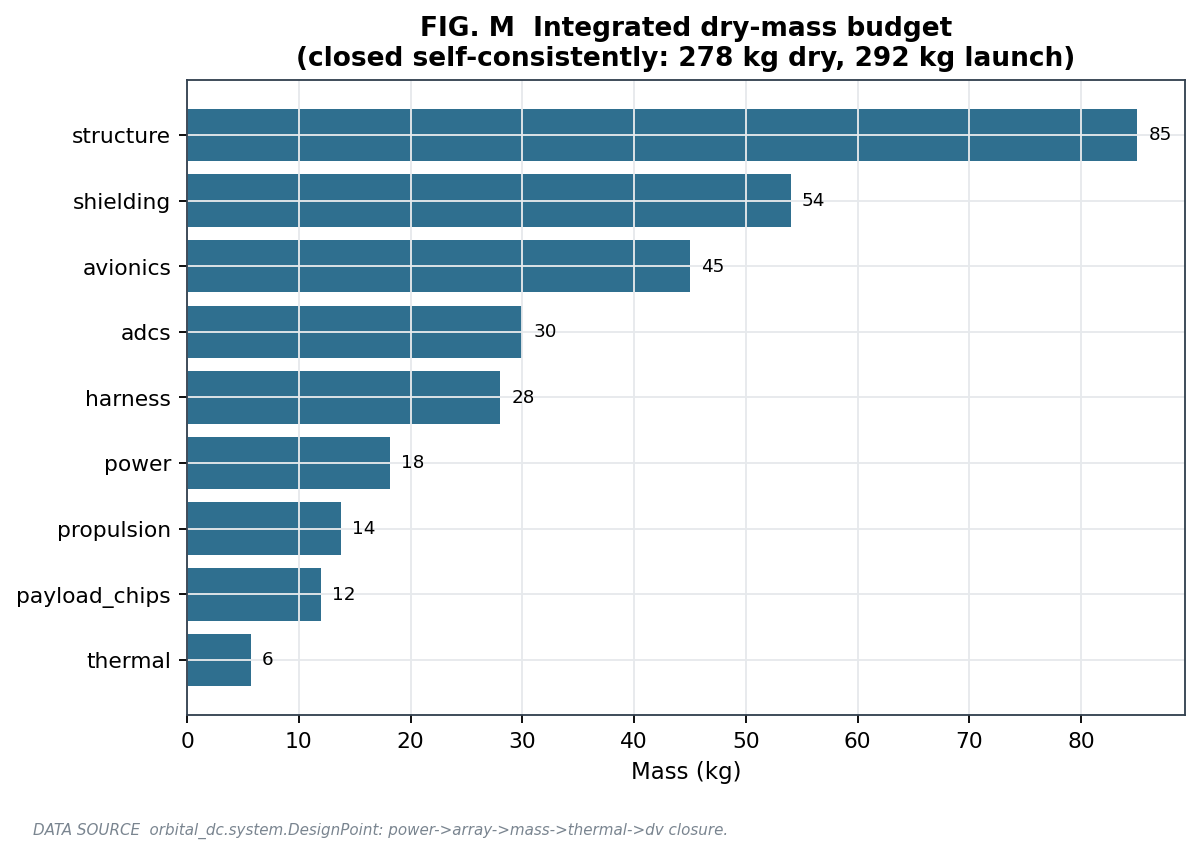
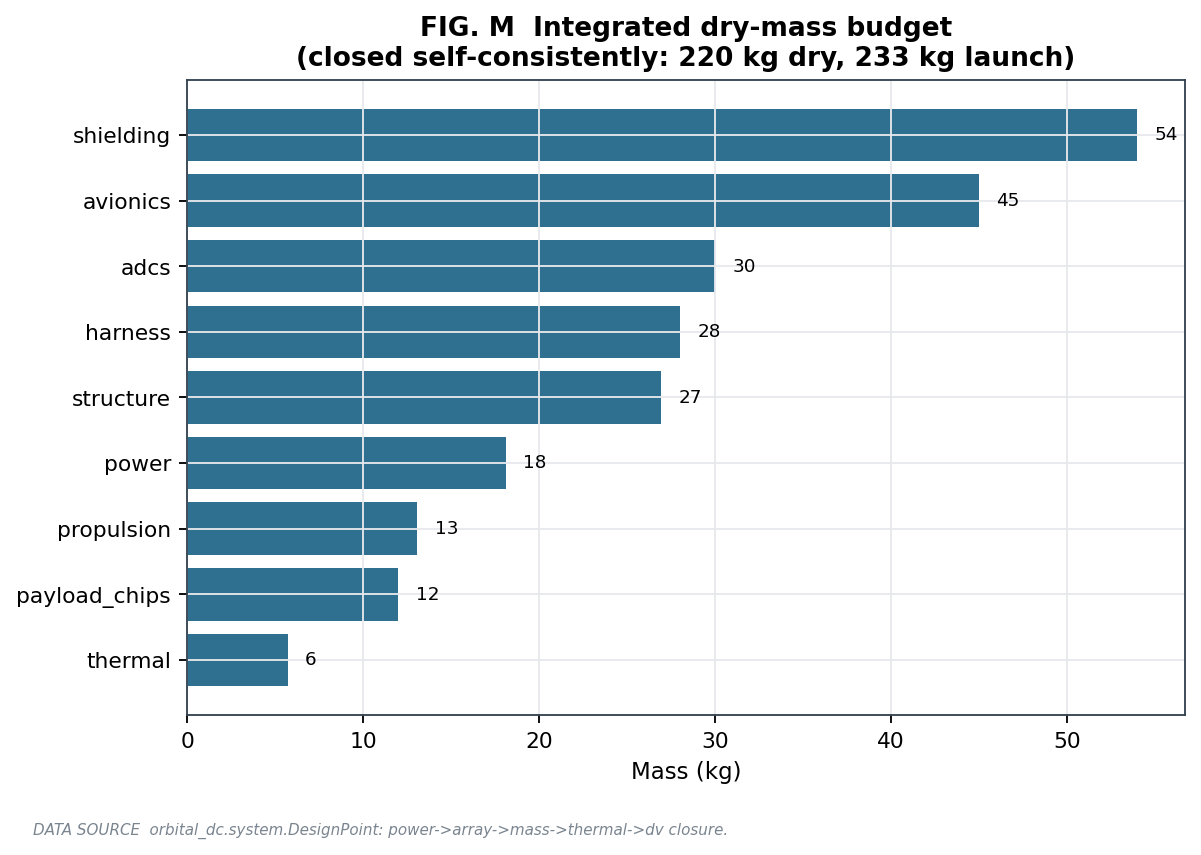
Add real Microsoft Word (.docx) edition of the treatise: 403 native OMML equations, 14 figures, 18 tables (via pandoc)

diff --git a/report/make_docx.py b/report/make_docx.py
@@ -1,0 +1,32 @@
+"""Convert Report_II_Complete.md to a real Microsoft Word .docx with NATIVE, editable
+Word equations (OMML), Word tables, and embedded figures, via Pandoc.
+
+Fixes the three genuine currency '$' (which would otherwise be parsed as math), then
+runs pandoc with a table of contents. Run from the report/ directory so the figure
+paths (figures/, systems_figs/, figures_pred/) resolve and embed."""
+import re, pathlib, pypandoc
+
+SRC = pathlib.Path("Report_II_Complete.md")
+t = SRC.read_text(encoding="utf-8")
+
+# --- protect genuine currency '$' from the math parser ---
+t = t.replace("LCOE ($/PFLOP-hr)", "LCOE (USD/PFLOP-hr)")
+t = t.replace("$/kg launch", "USD/kg launch")
+t = t.replace(" $ |", " USD |")          # lone NPV-units cell in the nomenclature table
+
+tmp = pathlib.Path("_report_docx_src.md")
+tmp.write_text(t, encoding="utf-8")
+
+# parity check (single '$' minus 2x display pairs should now be even)
+single = t.count("$") - 2 * t.count("$$")
+print("inline '$' after fix:", single, "(even ->", single % 2 == 0, ")")
+
+pypandoc.convert_file(
+    str(tmp), "docx", outputfile="Report_II_Complete.docx",
+    extra_args=["--toc", "--toc-depth=2", "--resource-path=.",
+                "--metadata=title:Space-Based AI Data Centers — A Complete Engineering Treatise",
+                "--metadata=author:Samarjith Biswas, PhD"],
+)
+tmp.unlink()
+out = pathlib.Path("Report_II_Complete.docx")
+print("wrote", out, f"({out.stat().st_size/1024:.0f} KB)")

diff --git a/README.md b/README.md
@@ -70,10 +70,12 @@ equation appears in a post or article.
 
 ## Read the study
 
-- **Master report (the complete study — physics + simulations + predictions, figures embedded, MathJax):**
-  [`report/Master_Report.html`](report/Master_Report.html) ← start here
+- **The complete treatise (~60-page book — all models, derivations, 18 tables, predictions):**
+  [`report/Report_II_Complete.html`](report/Report_II_Complete.html) ← start here, or the
+  **Microsoft Word version** [`report/Report_II_Complete.docx`](report/Report_II_Complete.docx)
+  (403 native, editable Word equations; 14 figures; 18 tables). Regenerate with `python report/make_docx.py`.
+- **Concise master report:** [`report/Master_Report.html`](report/Master_Report.html)
 - **Mathematical guide (every derivation in full):** [`report/Mathematical_Guide_Complete.html`](report/Mathematical_Guide_Complete.html)
-- **Earlier complete report:** [`report/Report_II_Complete.html`](report/Report_II_Complete.html)
 - **Cost-parity prediction (Monte-Carlo):** `python report/predictions.py`
 - **LinkedIn-ready text + equation images:** [`linkedin/Master_Report_LinkedIn.txt`](linkedin/Master_Report_LinkedIn.txt), [`report/equations/`](report/equations)
 